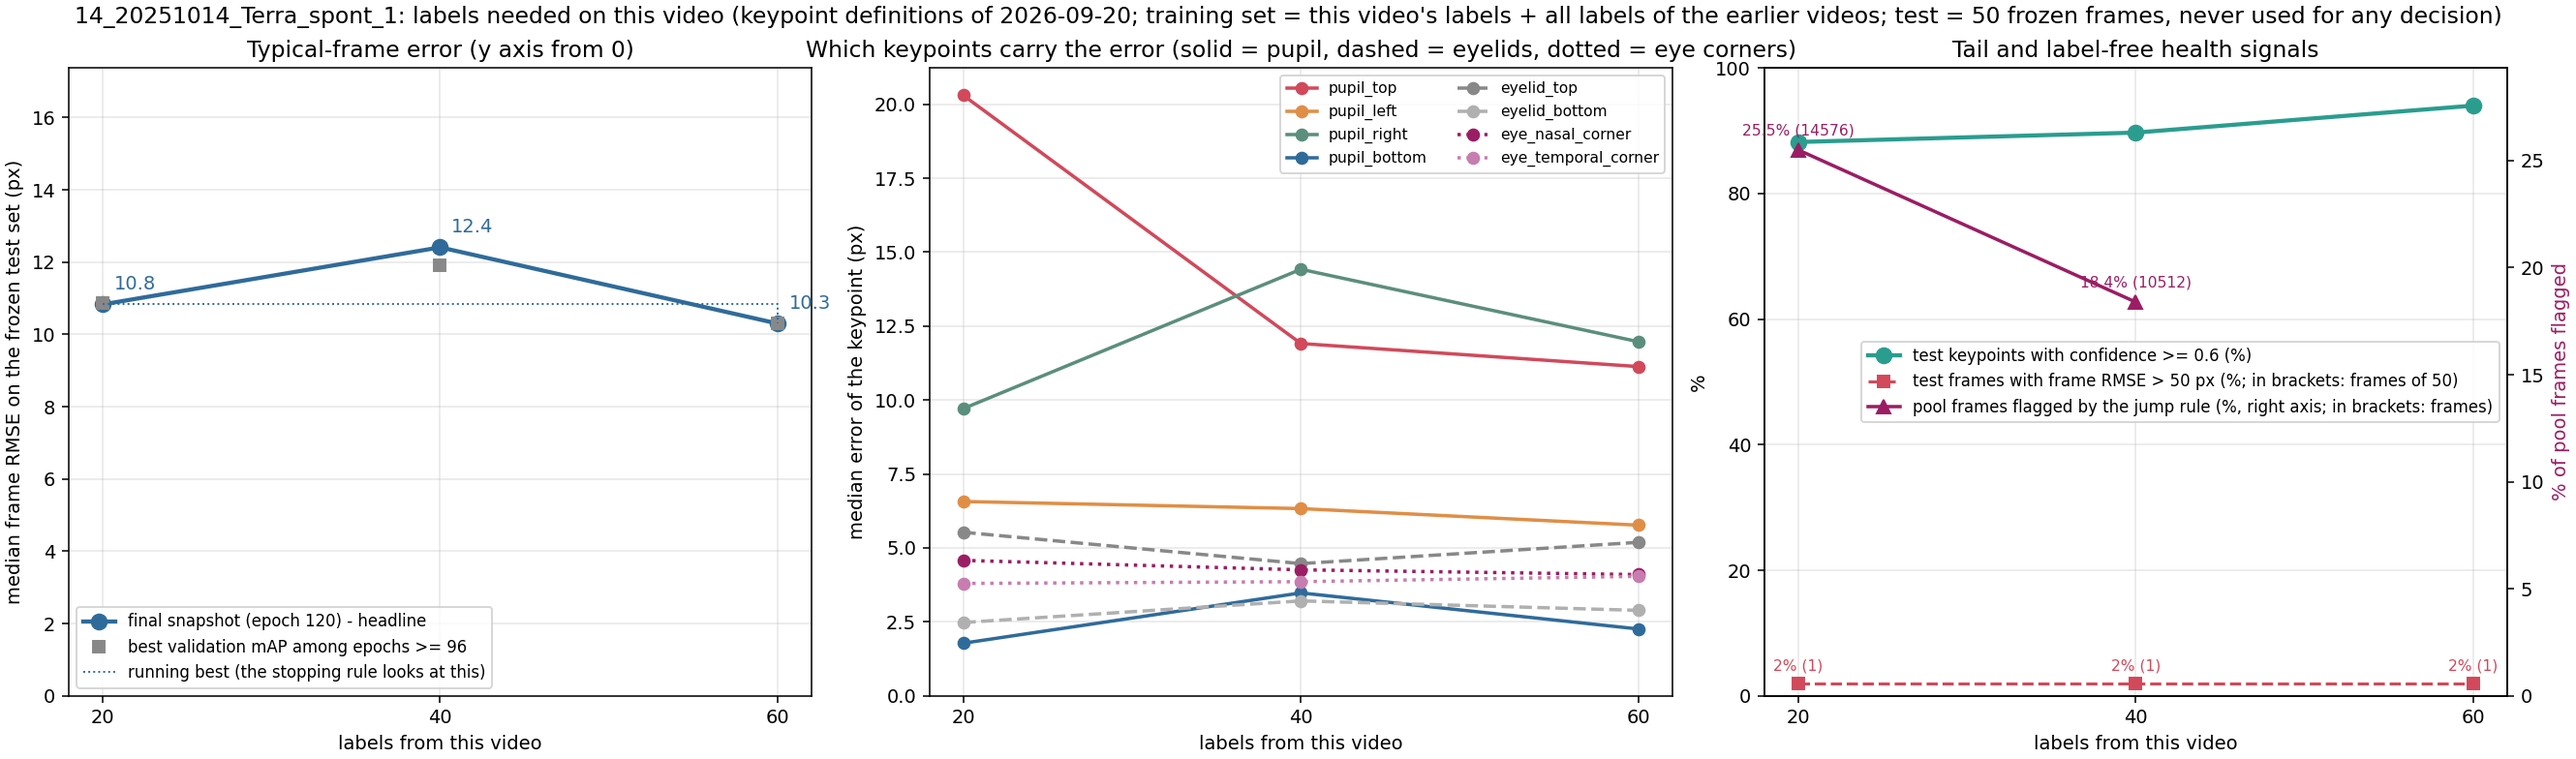
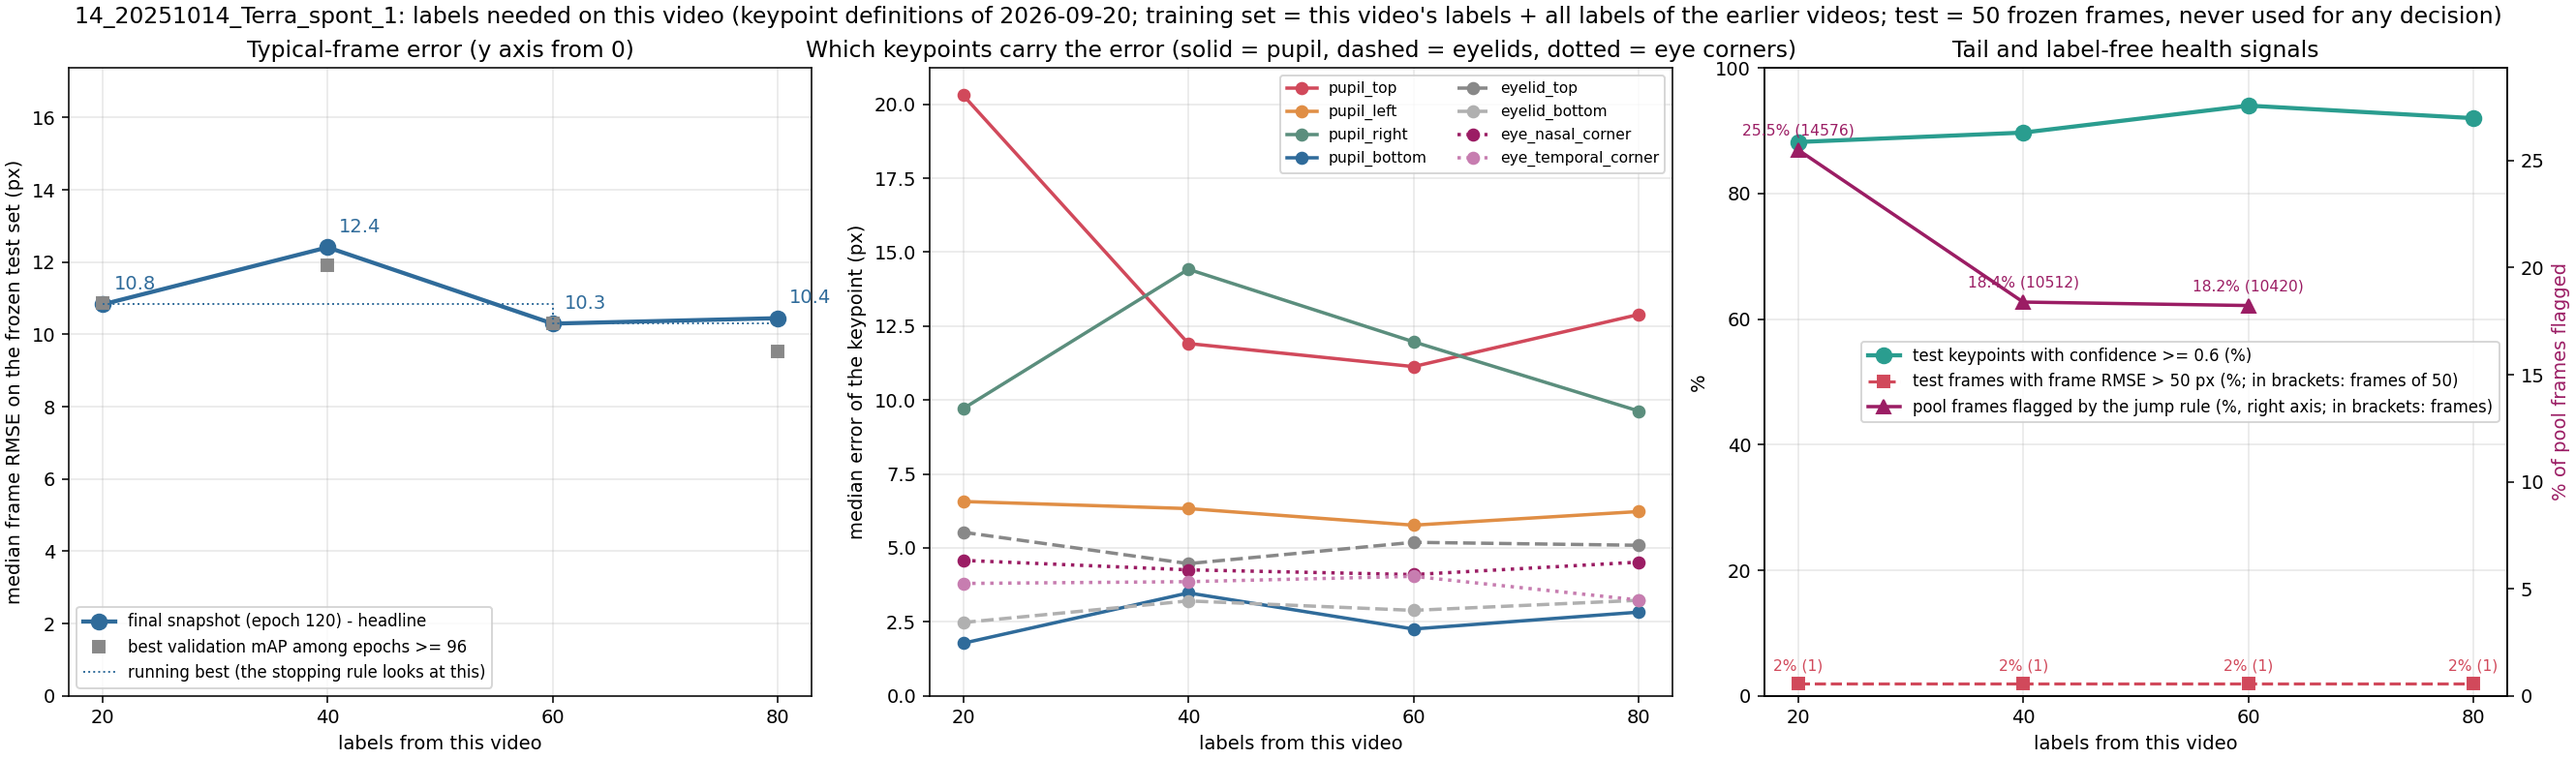
Video 14 step 4: 80 labels = 10.45 px (no gain over 10.30, one flat step); tables, figures and page rebuilt
Claude-Session: https://claude.ai/code/session_01HbY3eFuxfPQiRo7QFugpjw

diff --git a/report/index.html b/report/index.html
@@ -78,7 +78,7 @@ math[display="block"]{margin:10px 0 6px;text-align:left;overflow-x:auto;max-widt
 
 <header>
   <h1><span lang="zh">小鼠眼睛关键点追踪：做了什么，结果是什么</span><span lang="en">Mouse eye keypoint tracking: what was done and what came out</span></h1>
-  <p class="muted small">Zhiheng Li (University of Minnesota), Kaiwen Sheng (Stanford) · <span lang="zh">页面生成时间</span><span lang="en">page built</span> 2026-10-07 08:57 · <a href="https://github.com/ZhihengLi0/mouse-behavior-tracking">GitHub: ZhihengLi0/mouse-behavior-tracking</a></p>
+  <p class="muted small">Zhiheng Li (University of Minnesota), Kaiwen Sheng (Stanford) · <span lang="zh">页面生成时间</span><span lang="en">page built</span> 2026-10-07 11:05 · <a href="https://github.com/ZhihengLi0/mouse-behavior-tracking">GitHub: ZhihengLi0/mouse-behavior-tracking</a></p>
 
   <div class="text" lang="zh">
     <p><b>任务：</b>用 DeepLabCut 在小鼠眼睛视频的每一帧上找 8 个点：瞳孔上、下、左、右，上眼睑、下眼睑，鼻侧眼角、颞侧眼角。由这 8 个点得到瞳孔大小、眼睛睁开程度和眨眼，之后与脑记录对齐。</p>
@@ -105,7 +105,7 @@ math[display="block"]{margin:10px 0 6px;text-align:left;overflow-x:auto;max-widt
       <li><b>瞳孔面积怎么算？</b>按 2026 年 9 月 20 日明确的定义，瞳孔四个点都是椭圆端点，在 14 个视频的 694 帧测试帧上，四点法的面积误差中位数是 5.6%，三点法是 7.8%；视频 4 和 8 上面积仍然不准（第 9 步）。</li>
       <li><b>眨眼怎么判断？</b>第一轮先定了定义：非睁眼 = 眼睛闭上或眼睑盖住部分瞳孔。按帧的规则"睁开高度 ÷ 眼宽 &lt; 0.347"（眼睑点失效时看瞳孔置信度）在 239 帧单帧盲评上准确率 91%。主要发现：7 个视频（3、4、8–12）有 26–70% 的时间眼睛不是完全睁开的，半掩是那些录像的常态；眨眼是其中的子集，细分放下一轮（第 10 步）。</li>
     </ol>
-    <p><b>进度：</b>已完成 14 个视频（视频 0–13）；视频 14 进行中，按 0 / 20 / 40 / … 帧的误差为 13.33 / 10.83 / 12.41 / 10.30 px。</p>
+    <p><b>进度：</b>已完成 14 个视频（视频 0–13）；视频 14 进行中，按 0 / 20 / 40 / … 帧的误差为 13.33 / 10.83 / 12.41 / 10.30 / 10.45 px。</p>
   </div>
   <div class="text" lang="en">
     <p><b>Task:</b> DeepLabCut finds 8 points on every frame of a mouse-eye video: pupil top, bottom, left, right; upper and lower eyelid; nasal and temporal eye corner. From these we get pupil size, eye opening and blinks, to be aligned with brain recordings later.</p>
@@ -132,7 +132,7 @@ math[display="block"]{margin:10px 0 6px;text-align:left;overflow-x:auto;max-widt
       <li><b>How to compute the pupil area?</b> Under the definitions made explicit on 2026-09-20 all four pupil points are ellipse endpoints, and on the 694 test frames of 14 videos the four-point area has a median error of 5.6% against 7.8% for the three-point rule; on videos 4 and 8 the area is still not accurate (step 9).</li>
       <li><b>How to detect blinks?</b> The first round fixed a definition first: not open = the eye is closed or the lid covers part of the pupil. The per-frame rule "eye opening ÷ eye width &lt; 0.347" (pupil confidence when the eyelid points fail) is 91% accurate on 239 blind single frames. Main finding: in 7 videos (3, 4, 8–12) the eye is not fully open 26–70% of the time — a half-covered eye is the resting state of those recordings; blinks are a subset, and the finer classes come next (step 10).</li>
     </ol>
-    <p><b>Status:</b> 14 videos finished (videos 0–13); video 14 in progress, error at 0 / 20 / 40 / … labels: 13.33 / 10.83 / 12.41 / 10.30 px.</p>
+    <p><b>Status:</b> 14 videos finished (videos 0–13); video 14 in progress, error at 0 / 20 / 40 / … labels: 13.33 / 10.83 / 12.41 / 10.30 / 10.45 px.</p>
   </div>
 
   <div class="text" lang="zh">
@@ -624,7 +624,7 @@ math[display="block"]{margin:10px 0 6px;text-align:left;overflow-x:auto;max-widt
 <tr><td>11</td><td>Terra<br>2025-10-17</td><td>540</td><td>25.96 / 9.24 / 8.86 / 8.77 / 8.65</td><td><span lang="zh"><b>40 帧，8.86 px</b></span><span lang="en"><b>40 labels, 8.86 px</b></span></td><td>80</td><td>40</td></tr>
 <tr><td>12</td><td>Terra<br>2025-10-16</td><td>580</td><td>5.13 / 5.77 / 5.84</td><td><span lang="zh"><b>0 帧，5.13 px</b></span><span lang="en"><b>0 labels, 5.13 px</b></span></td><td>40</td><td>0</td></tr>
 <tr><td>13</td><td>Terra<br>2025-10-15</td><td>580</td><td>69.13 / 9.43 / 9.44 / 9.67</td><td><span lang="zh"><b>20 帧，9.43 px</b></span><span lang="en"><b>20 labels, 9.43 px</b></span></td><td>60</td><td>20</td></tr>
-<tr><td>14</td><td>Terra<br>2025-10-14</td><td>600</td><td>13.33 / 10.83 / 12.41 / 10.30</td><td><span lang="zh">进行中（目前最好：60 帧，10.30 px）</span><span lang="en">in progress (best so far: 60 labels, 10.30 px)</span></td><td>60</td><td>–</td></tr>
+<tr><td>14</td><td>Terra<br>2025-10-14</td><td>600</td><td>13.33 / 10.83 / 12.41 / 10.30 / 10.45</td><td><span lang="zh">进行中（目前最好：60 帧，10.30 px）</span><span lang="en">in progress (best so far: 60 labels, 10.30 px)</span></td><td>80</td><td>–</td></tr>
       </tbody>
     </table>
   </div>

diff --git a/report/index_en.html b/report/index_en.html
@@ -75,7 +75,7 @@ math[display="block"]{margin:10px 0 6px;text-align:left;overflow-x:auto;max-widt
 
 <header>
   <h1><span lang="en">Mouse eye keypoint tracking: what was done and what came out</span></h1>
-  <p class="muted small">Zhiheng Li (University of Minnesota), Kaiwen Sheng (Stanford) · <span lang="en">page built</span> 2026-10-07 08:57 · <a href="https://github.com/ZhihengLi0/mouse-behavior-tracking">GitHub: ZhihengLi0/mouse-behavior-tracking</a></p>
+  <p class="muted small">Zhiheng Li (University of Minnesota), Kaiwen Sheng (Stanford) · <span lang="en">page built</span> 2026-10-07 11:05 · <a href="https://github.com/ZhihengLi0/mouse-behavior-tracking">GitHub: ZhihengLi0/mouse-behavior-tracking</a></p>
 
   
   <div class="text" lang="en">
@@ -103,7 +103,7 @@ math[display="block"]{margin:10px 0 6px;text-align:left;overflow-x:auto;max-widt
       <li><b>How to compute the pupil area?</b> Under the definitions made explicit on 2026-09-20 all four pupil points are ellipse endpoints, and on the 694 test frames of 14 videos the four-point area has a median error of 5.6% against 7.8% for the three-point rule; on videos 4 and 8 the area is still not accurate (step 9).</li>
       <li><b>How to detect blinks?</b> The first round fixed a definition first: not open = the eye is closed or the lid covers part of the pupil. The per-frame rule "eye opening ÷ eye width &lt; 0.347" (pupil confidence when the eyelid points fail) is 91% accurate on 239 blind single frames. Main finding: in 7 videos (3, 4, 8–12) the eye is not fully open 26–70% of the time — a half-covered eye is the resting state of those recordings; blinks are a subset, and the finer classes come next (step 10).</li>
     </ol>
-    <p><b>Status:</b> 14 videos finished (videos 0–13); video 14 in progress, error at 0 / 20 / 40 / … labels: 13.33 / 10.83 / 12.41 / 10.30 px.</p>
+    <p><b>Status:</b> 14 videos finished (videos 0–13); video 14 in progress, error at 0 / 20 / 40 / … labels: 13.33 / 10.83 / 12.41 / 10.30 / 10.45 px.</p>
   </div>
 
   
@@ -502,7 +502,7 @@ math[display="block"]{margin:10px 0 6px;text-align:left;overflow-x:auto;max-widt
 <tr><td>11</td><td>Terra<br>2025-10-17</td><td>540</td><td>25.96 / 9.24 / 8.86 / 8.77 / 8.65</td><td><span lang="en"><b>40 labels, 8.86 px</b></span></td><td>80</td><td>40</td></tr>
 <tr><td>12</td><td>Terra<br>2025-10-16</td><td>580</td><td>5.13 / 5.77 / 5.84</td><td><span lang="en"><b>0 labels, 5.13 px</b></span></td><td>40</td><td>0</td></tr>
 <tr><td>13</td><td>Terra<br>2025-10-15</td><td>580</td><td>69.13 / 9.43 / 9.44 / 9.67</td><td><span lang="en"><b>20 labels, 9.43 px</b></span></td><td>60</td><td>20</td></tr>
-<tr><td>14</td><td>Terra<br>2025-10-14</td><td>600</td><td>13.33 / 10.83 / 12.41 / 10.30</td><td><span lang="en">in progress (best so far: 60 labels, 10.30 px)</span></td><td>60</td><td>–</td></tr>
+<tr><td>14</td><td>Terra<br>2025-10-14</td><td>600</td><td>13.33 / 10.83 / 12.41 / 10.30 / 10.45</td><td><span lang="en">in progress (best so far: 60 labels, 10.30 px)</span></td><td>80</td><td>–</td></tr>
       </tbody>
     </table>
   </div>

diff --git a/README.md b/README.md
@@ -27,7 +27,7 @@ per-frame predictions stay local; git carries code, documentation and audited ag
 | Finished | **video 11** (Terra = mouse C, 2025-10-17, the first video of a new mouse): test50 / val20 / batch01 pre-labeled with the video-10 40-label model (1112) and corrected by the labeler (test50: 249 of 400 points moved), test set frozen; 0 labels (model 1112) = 25.96 px (p90 80.1, 16% of frames > 50 px), 20 labels = 9.24 px (p90 166.4, 20% of frames > 50 px), 40 labels = 8.86 px (p90 17.5, 4% of frames > 50 px, 94% of keypoints with confidence >= 0.6; 4.1% better on the median), 60 labels = 8.77 px (p90 12.9, 2% of frames > 50 px, 97% confidence; 1.0% better than 8.86, a flat step), 80 labels = 8.65 px (p90 13.1, 2% > 50 px, 98% confidence; 1.4% better, a second flat step): the plateau rule fired at 80, finished at **40 labels, 8.86 px** (user decision 2026-10-04). Training set of every step = 540 carried labels of videos 0-10 + this video's labels; shuffles 1211, 1212, ... |
 | Finished | **video 12** (Terra, 2025-10-16, second video of mouse C): test50 / val20 / batch01 pre-labeled with the video-11 40-label model (1212) and corrected by the labeler (test50: 110 of 400 points moved), test set frozen; 0 labels (model 1212) = 5.13 px, 20 labels = 5.77 px, 40 labels = 5.84 px (0% of frames > 50 px at every step): no step improves the 0-label number, the plateau rule fired at 40, finished with the plateau at **0 labels, 5.13 px** (user decision 2026-10-04 21:29); no labels carried |
 | Finished | **video 13** (Terra, 2025-10-15, third video of mouse C): test50 / val20 / batch01 pre-labeled with the video-11 40-label model (1212) and corrected by the labeler (test50: 287 of 400 points moved), test set frozen; 0 labels (model 1212) = 69.13 px (56% of frames > 50 px: the model that fitted video 12 does not fit this day), 20 labels = 9.43 px, 40 labels = 9.44 px, 60 labels = 9.67 px (0% of frames > 50 px from 20 labels on): no step improves on 20 labels, the plateau rule fired at 60; **plateau at 20 labels, 9.43 px** (user decision 2026-10-06), tag `v0.9.15-video13-plateau`; batch01 (20 labels) carried, 600 labels go into video 14. Fewer-labels: 5 labels 10.46 / 16.03 px, 10 labels 11.24 / 10.29 px (first-batch size only, no jump selection afterwards; both above the 20-label 9.43 px). |
-| In progress | **video 14** (Terra, 2025-10-14): test50 / val20 / batch01 extracted and pre-labeled with the video-13 20-label model (1411); corrected by the labeler (test50: 149 of 400 points moved), test set frozen; 0 labels (model 1411) = 13.33 px (p90 170.8, 16% of frames > 50 px); 20 labels (shuffle 1511) = 10.83 px (p90 28.7, 2% of frames > 50 px, 88% of keypoints with confidence >= 0.6; 19% better than the 0-label number); 40 labels (shuffle 1512) = 12.41 px (p90 25.8, 2% > 50 px, 90% confidence; no gain over 10.83, one flat step by the rule); batch 3 selected (10512 of 57158 pool frames flagged, 18.4%) and labeled; 60 labels (shuffle 1513) = 10.30 px (p90 16.1, 2% > 50 px, 94% confidence; 4.9% better than 10.83, an improving step, the flat-step count restarts); batch 4 selected from the 60-label model (10420 of 57158 pool frames flagged, 18.2%) and being labeled (2026-10-07 02:35). Fewer-labels: 5 labels 10.93 / 10.22 px, 10 labels 9.82 / 10.06 px (first-batch size only, no jump selection afterwards; medians within 10% of the 20-label 10.83 px, subset 5b with 14% of frames > 50 px). Training set of every step = 600 carried labels of videos 0-13 + this video's labels; shuffles 1511, 1512, ... |
+| In progress | **video 14** (Terra, 2025-10-14): test50 / val20 / batch01 extracted and pre-labeled with the video-13 20-label model (1411); corrected by the labeler (test50: 149 of 400 points moved), test set frozen; 0 labels (model 1411) = 13.33 px (p90 170.8, 16% of frames > 50 px); 20 labels (shuffle 1511) = 10.83 px (p90 28.7, 2% of frames > 50 px, 88% of keypoints with confidence >= 0.6; 19% better than the 0-label number); 40 labels (shuffle 1512) = 12.41 px (p90 25.8, 2% > 50 px, 90% confidence; no gain over 10.83, one flat step by the rule); batch 3 selected (10512 of 57158 pool frames flagged, 18.4%) and labeled; 60 labels (shuffle 1513) = 10.30 px (p90 16.1, 2% > 50 px, 94% confidence; 4.9% better than 10.83, an improving step, the flat-step count restarts); batch 4 selected from the 60-label model (10420 of 57158 pool frames flagged, 18.2%) and labeled; 80 labels (shuffle 1514) = 10.45 px (p90 18.1, 2% > 50 px, 92% confidence; no gain over 10.30, one flat step by the rule); batch 5 selected from the 80-label model and being labeled (2026-10-07 11:05). Fewer-labels: 5 labels 10.93 / 10.22 px, 10 labels 9.82 / 10.06 px (first-batch size only, no jump selection afterwards; medians within 10% of the 20-label 10.83 px, subset 5b with 14% of frames > 50 px). Training set of every step = 600 carried labels of videos 0-13 + this video's labels; shuffles 1511, 1512, ... |
 | Analysis (2026-10-04) | blink and pupil area on all 12 finished videos (`v2_new_pupil_top_video_scaling/results/blink_and_area/`): four-point area median error 6.6% (three-point 8.3%); closed eye best detected by the mean confidence of the four pupil points (27 of 28 closed frames, 4.1% of open frames flagged; the earlier rule flags 55.7%); area traces still contain tracking jumps not covered by the closure rule. Error and confidence per keypoint (`.../results/keypoint_confidence_error/`): pupil top is the least accurate point (10.9 px median) |
 | Next | Terra units 15-18, one recording day each, newest first |
 

diff --git a/v2_new_pupil_top_video_scaling/results/README.md b/v2_new_pupil_top_video_scaling/results/README.md
@@ -26,7 +26,7 @@ snapshot with the best validation mAP after the first learning-rate drop (epochs
 | 11 `11_20251017_Terra_spont_1` | mouse C (Terra), 19.9 min, 2025-10-17 | 540 (videos 0-3 + 40 of video 4 + 20 each of videos 5, 6, 8 + 80 of video 9 + 40 of video 10) | convention v2: 25.96 / 9.24 / 8.86 / 8.77 / 8.65 | **40 labels** (rule fired at 80; user decision 2026-10-04) | 8.86 px |
 | 12 `12_20251016_Terra_spont_2` | mouse C (Terra), 19.9 min, 2025-10-16 | 580 (as for video 11 + 40 of video 11) | convention v2: 5.13 (0 labels; biased low by the pre-labels; see the video's README) / 5.77 / 5.84 | **0 labels** (rule fired at 40; the video-11 model already fits) | 5.13 px |
 | 13 `13_20251015_Terra_spont_1` | mouse C (Terra), 19.9 min, 2025-10-15 | 580 (video 12 carries none) | convention v2: 69.13 / 9.43 / 9.44 / 9.67 | **20 labels** (rule fired at 60) | 9.43 px |
-| 14 `14_20251014_Terra_spont_1` | mouse C (Terra), 2025-10-14 | 600 (580 + 20 of video 13) | convention v2: 13.33 / 10.83 / 12.41 / 10.30 | in progress (60 labels improve on 20; batch 4 being labeled) | – |
+| 14 `14_20251014_Terra_spont_1` | mouse C (Terra), 2025-10-14 | 600 (580 + 20 of video 13) | convention v2: 13.33 / 10.83 / 12.41 / 10.30 / 10.45 | in progress (one flat step at 80; batch 5 being labeled) | – |
 
 `labels_to_plateau.png` / `labels_to_plateau.csv` (2026-09-30): the plateau point of every video in the sequence as one figure - labels needed (left) and the error at the plateau vs the 0-label error (right); `scripts/plot_labels_to_plateau.py`. The csv is the table above in machine-readable form and is updated when a video finishes.
 

diff --git a/v2_new_pupil_top_video_scaling/14_20251014_Terra_spont_1/results/README.md b/v2_new_pupil_top_video_scaling/14_20251014_Terra_spont_1/results/README.md
@@ -14,6 +14,7 @@ contributed none; 600 in total) + this video's labels; shuffles 1511, 1512, ...
 | 20 (shuffle 1511) | 10.83 px | 28.7 | 2% | 88% | 14576 of 57158 (25.5%) |
 | 40 (shuffle 1512) | 12.41 px | 25.8 | 2% | 90% | 10512 of 57158 (18.4%) |
 | 60 (shuffle 1513) | 10.30 px | 16.1 | 2% | 94% | 10420 of 57158 (18.2%) |
+| 80 (shuffle 1514) | 10.45 px | 18.1 | 2% | 92% | pending |
 
 The other Terra models give 11.3-35.4 px on this test set (video-13 40- and 60-label models 11.28 / 11.59 px, video-12
 models 24.5-26.9 px, video-11 models 26.6-35.4 px; `../results/cross_video_matrix.csv`).
@@ -33,3 +34,6 @@ jump selection followed. 5 labels = 10.93 / 10.22 px (subsets a / b; p90 16.7 / 
 13.33 px at 0 labels and 10.83 px at 20; 10 labels = 9.82 / 10.06 px (subsets a / b; p90 22.9 / 25.9; 8% / 2% of frames > 50 px).
 On this video the medians of 5 and 10 labels are within 10% of the 20-label 10.83 px (three of the four below it), but with
 more gross errors (subset 5b: 14% of frames > 50 px against 2% at 20 labels); figure `fewer_labels.png`.
+
+Step 4 (80 labels): 10.45 px, no gain over the running best 10.30 px (step 3): one flat step by the rule (2026-10-07 11:03). Batch 5
+is selected from the 80-label model and opened; the rule fires only if 100 labels also fail to improve by 3%.
